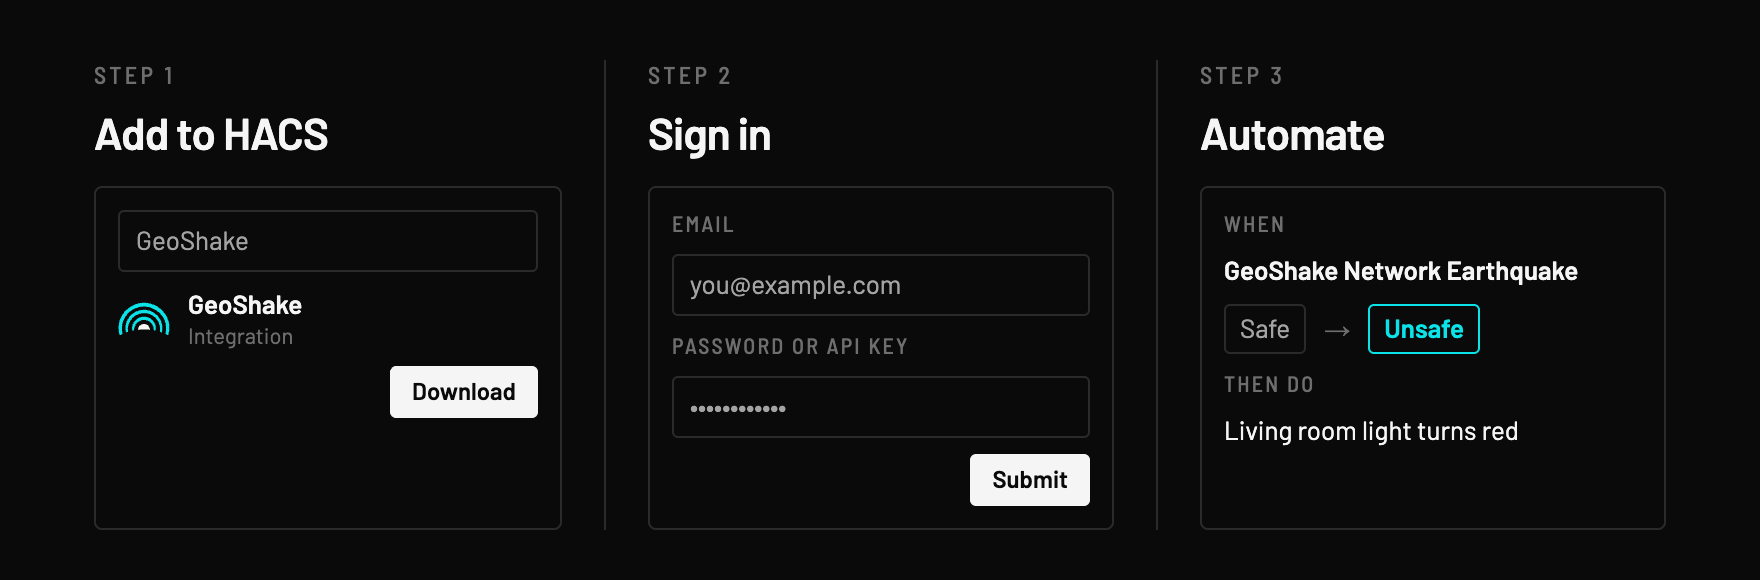
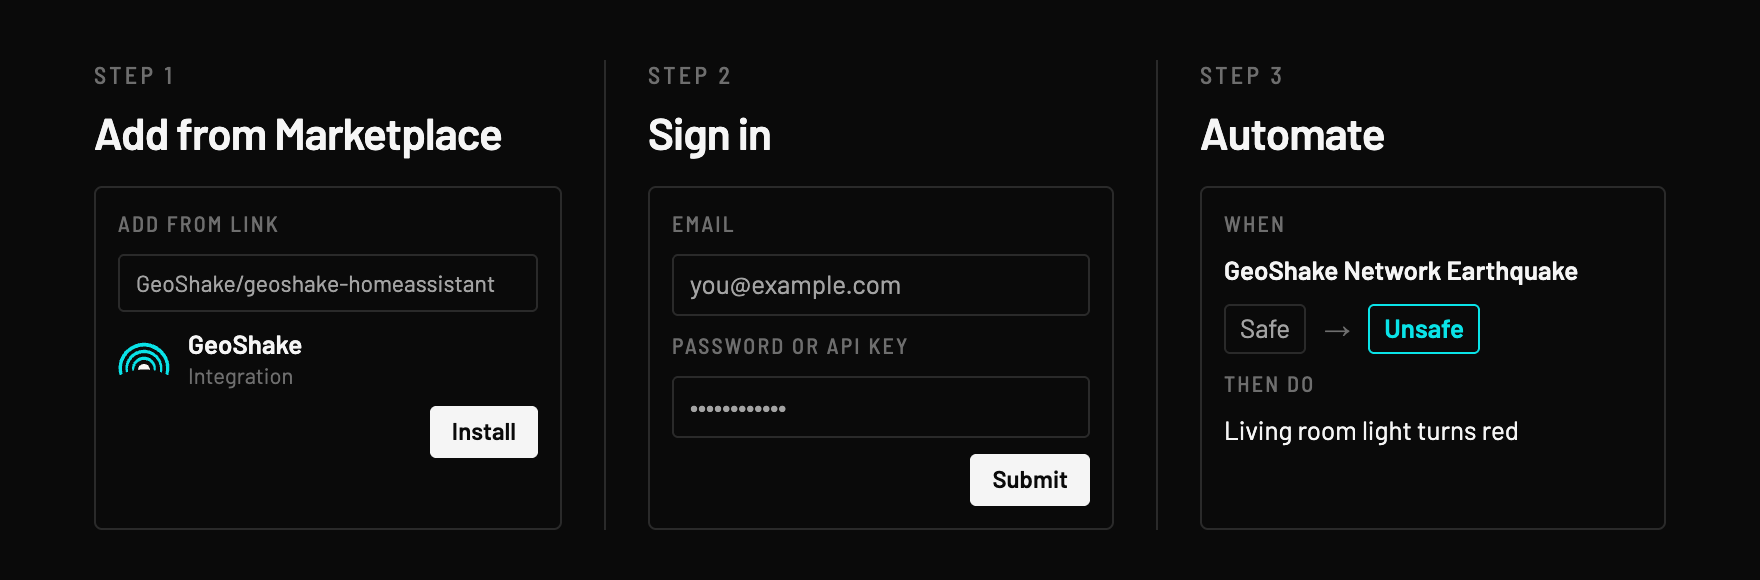
v0.3.1: Apache-2.0 license, HACS and hassfest validation, Marketplace install steps
- Add the Apache License 2.0
- Add the HACS action and hassfest validation workflows
- README: install from Settings > Marketplace > Add from link on Home Assistant
  2026.11 and newer; HACS custom repository steps for 2026.10 and older
- Setup dialog wording without long dashes
- Version 0.3.1

Changed region(s): [[0.0625, 0.3414, 0.3125, 0.6828], [0.2188, 0.6207, 0.3125, 0.8069], [0.0938, 0.1862, 0.2812, 0.2793]]

diff --git a/README.md b/README.md
@@ -6,16 +6,13 @@
 
 **Earthquake early warning for Home Assistant.** When at least three GeoShake stations close to each other confirm an earthquake, the GeoShake network sends an early warning and your Home Assistant gets it too: the **Earthquake** sensor switches to **Unsafe** and your automations run (lights, sirens, announcements). Depending on your distance from the epicenter, this gives you about **5 to 30 seconds** before the strong shaking reaches you.
 
-[![HACS Custom](https://img.shields.io/badge/HACS-Custom-orange.svg)](https://hacs.xyz)
+[![Marketplace / HACS: custom repository](https://img.shields.io/badge/Marketplace%20%2F%20HACS-custom%20repository-orange.svg)](#install)
 [![Release](https://img.shields.io/github/v/release/GeoShake/geoshake-homeassistant)](https://github.com/GeoShake/geoshake-homeassistant/releases)
 [![Home Assistant 2024.11+](https://img.shields.io/badge/Home%20Assistant-2024.11%2B-18bcf2.svg)](https://www.home-assistant.io)
 
-[![Open your Home Assistant instance and open this repository in HACS.](https://my.home-assistant.io/badges/hacs_repository.svg)](https://my.home-assistant.io/redirect/hacs_repository/?owner=GeoShake&repository=geoshake-homeassistant&category=integration)
-[![Open your Home Assistant instance and start setting up GeoShake.](https://my.home-assistant.io/badges/config_flow_start.svg)](https://my.home-assistant.io/redirect/config_flow_start/?domain=geoshake)
-
 Also on [Google Home and Amazon Alexa](#google-home-and-amazon-alexa).
 
-![Three steps: add GeoShake to HACS, sign in with your GeoShake account, create an automation from Safe to Unsafe](docs/images/steps.png)
+![Three steps: add GeoShake to Home Assistant from the Marketplace, sign in with your GeoShake account, create an automation from Safe to Unsafe](docs/images/steps.png)
 
 > [!IMPORTANT]
 > Early warning is not guaranteed. Close to the epicenter the warning can arrive after the shaking has started, and automations can be delayed or fail to run. Treat this as a helpful extra layer, not a life-safety system: keep alerts on in the GeoShake app and follow your national authority's official warnings.
@@ -31,11 +28,17 @@ Also on [Google Home and Amazon Alexa](#google-home-and-amazon-alexa).
 
 ## Install
 
-**You'll need:** Home Assistant 2024.11 or newer (OS, Container or Supervised), [HACS](https://hacs.xyz) and your GeoShake account. It takes about five minutes.
+**You'll need:** Home Assistant 2024.11 or newer (OS, Container or Supervised) and your GeoShake account. On Home Assistant 2026.10 or older you also need [HACS](https://hacs.xyz). It takes about five minutes.
 
-1. **Add the repository to HACS.** Use the HACS button above. Or open HACS, go to **⋮ → Custom repositories**, paste `https://github.com/GeoShake/geoshake-homeassistant` and choose the type **Integration**.
-2. **Download.** Search for **GeoShake** in HACS, click **Download**, then restart Home Assistant (**Settings → System → Restart**).
-3. **Add the integration.** Go to **Settings → Devices & services → Add integration**, search for **GeoShake** and choose **Sign in with GeoShake account**.
+1. **Add GeoShake to Home Assistant.**
+   - **Home Assistant 2026.11 or newer:** go to **Settings → Marketplace**, select **Add from link** (top right), enter `GeoShake/geoshake-homeassistant` and select **Add**. The first time, the Marketplace asks you to connect GitHub.
+   - **Home Assistant 2026.10 or older:** use the HACS button below, or open HACS, go to **⋮ → Custom repositories**, paste `https://github.com/GeoShake/geoshake-homeassistant` and choose the type **Integration**.
+
+     [![Open your Home Assistant instance and open this repository in HACS.](https://my.home-assistant.io/badges/hacs_repository.svg)](https://my.home-assistant.io/redirect/hacs_repository/?owner=GeoShake&repository=geoshake-homeassistant&category=integration)
+2. **Install.** Open **GeoShake** in the list and install it (**Download** in HACS), then restart Home Assistant (**Settings → System → Restart**).
+3. **Add the integration.** Use the button below, or go to **Settings → Devices & services → Add integration**, search for **GeoShake** and choose **Sign in with GeoShake account**.
+
+   [![Open your Home Assistant instance and start setting up GeoShake.](https://my.home-assistant.io/badges/config_flow_start.svg)](https://my.home-assistant.io/redirect/config_flow_start/?domain=geoshake)
 4. **Sign in** with your GeoShake email and password.
 
 > [!TIP]
@@ -146,9 +149,9 @@ Home Assistant lost its connection to GeoShake, usually because the internet dro
 </details>
 
 <details>
-<summary>GeoShake doesn't show up when I search HACS</summary>
+<summary>GeoShake doesn't show up when I search the Marketplace or HACS</summary>
 
-GeoShake is installed as a custom repository. Use the HACS button above, or add the repository under **⋮ → Custom repositories** first. Then the search finds it.
+GeoShake isn't in the default catalog yet. Add it once with **Add from link** in the Marketplace, or as a custom repository in HACS on older versions (see [Install](#install), step 1). Then it shows up in the list.
 
 </details>
 

diff --git a/CONTRIBUTING.md b/CONTRIBUTING.md
@@ -22,4 +22,8 @@ The images in `docs/images/` are generated from HTML sources kept in the GeoShak
 
 ## Releasing
 
-HACS reads the repository root: `hacs.json`, `README.md` and `custom_components/geoshake/`. To release, bump `version` in `custom_components/geoshake/manifest.json`, then create a GitHub release with the tag `vX.Y.Z`.
+HACS and the Home Assistant Marketplace read the repository root: `hacs.json`, `README.md` and `custom_components/geoshake/`. The **Validate** (HACS action) and **Validate with hassfest** workflows run on every push; both must pass before a release. To release, bump `version` in `custom_components/geoshake/manifest.json`, then create a full GitHub release (not just a tag) with the tag `vX.Y.Z`.
+
+## License
+
+Apache License 2.0, see [LICENSE](LICENSE).
